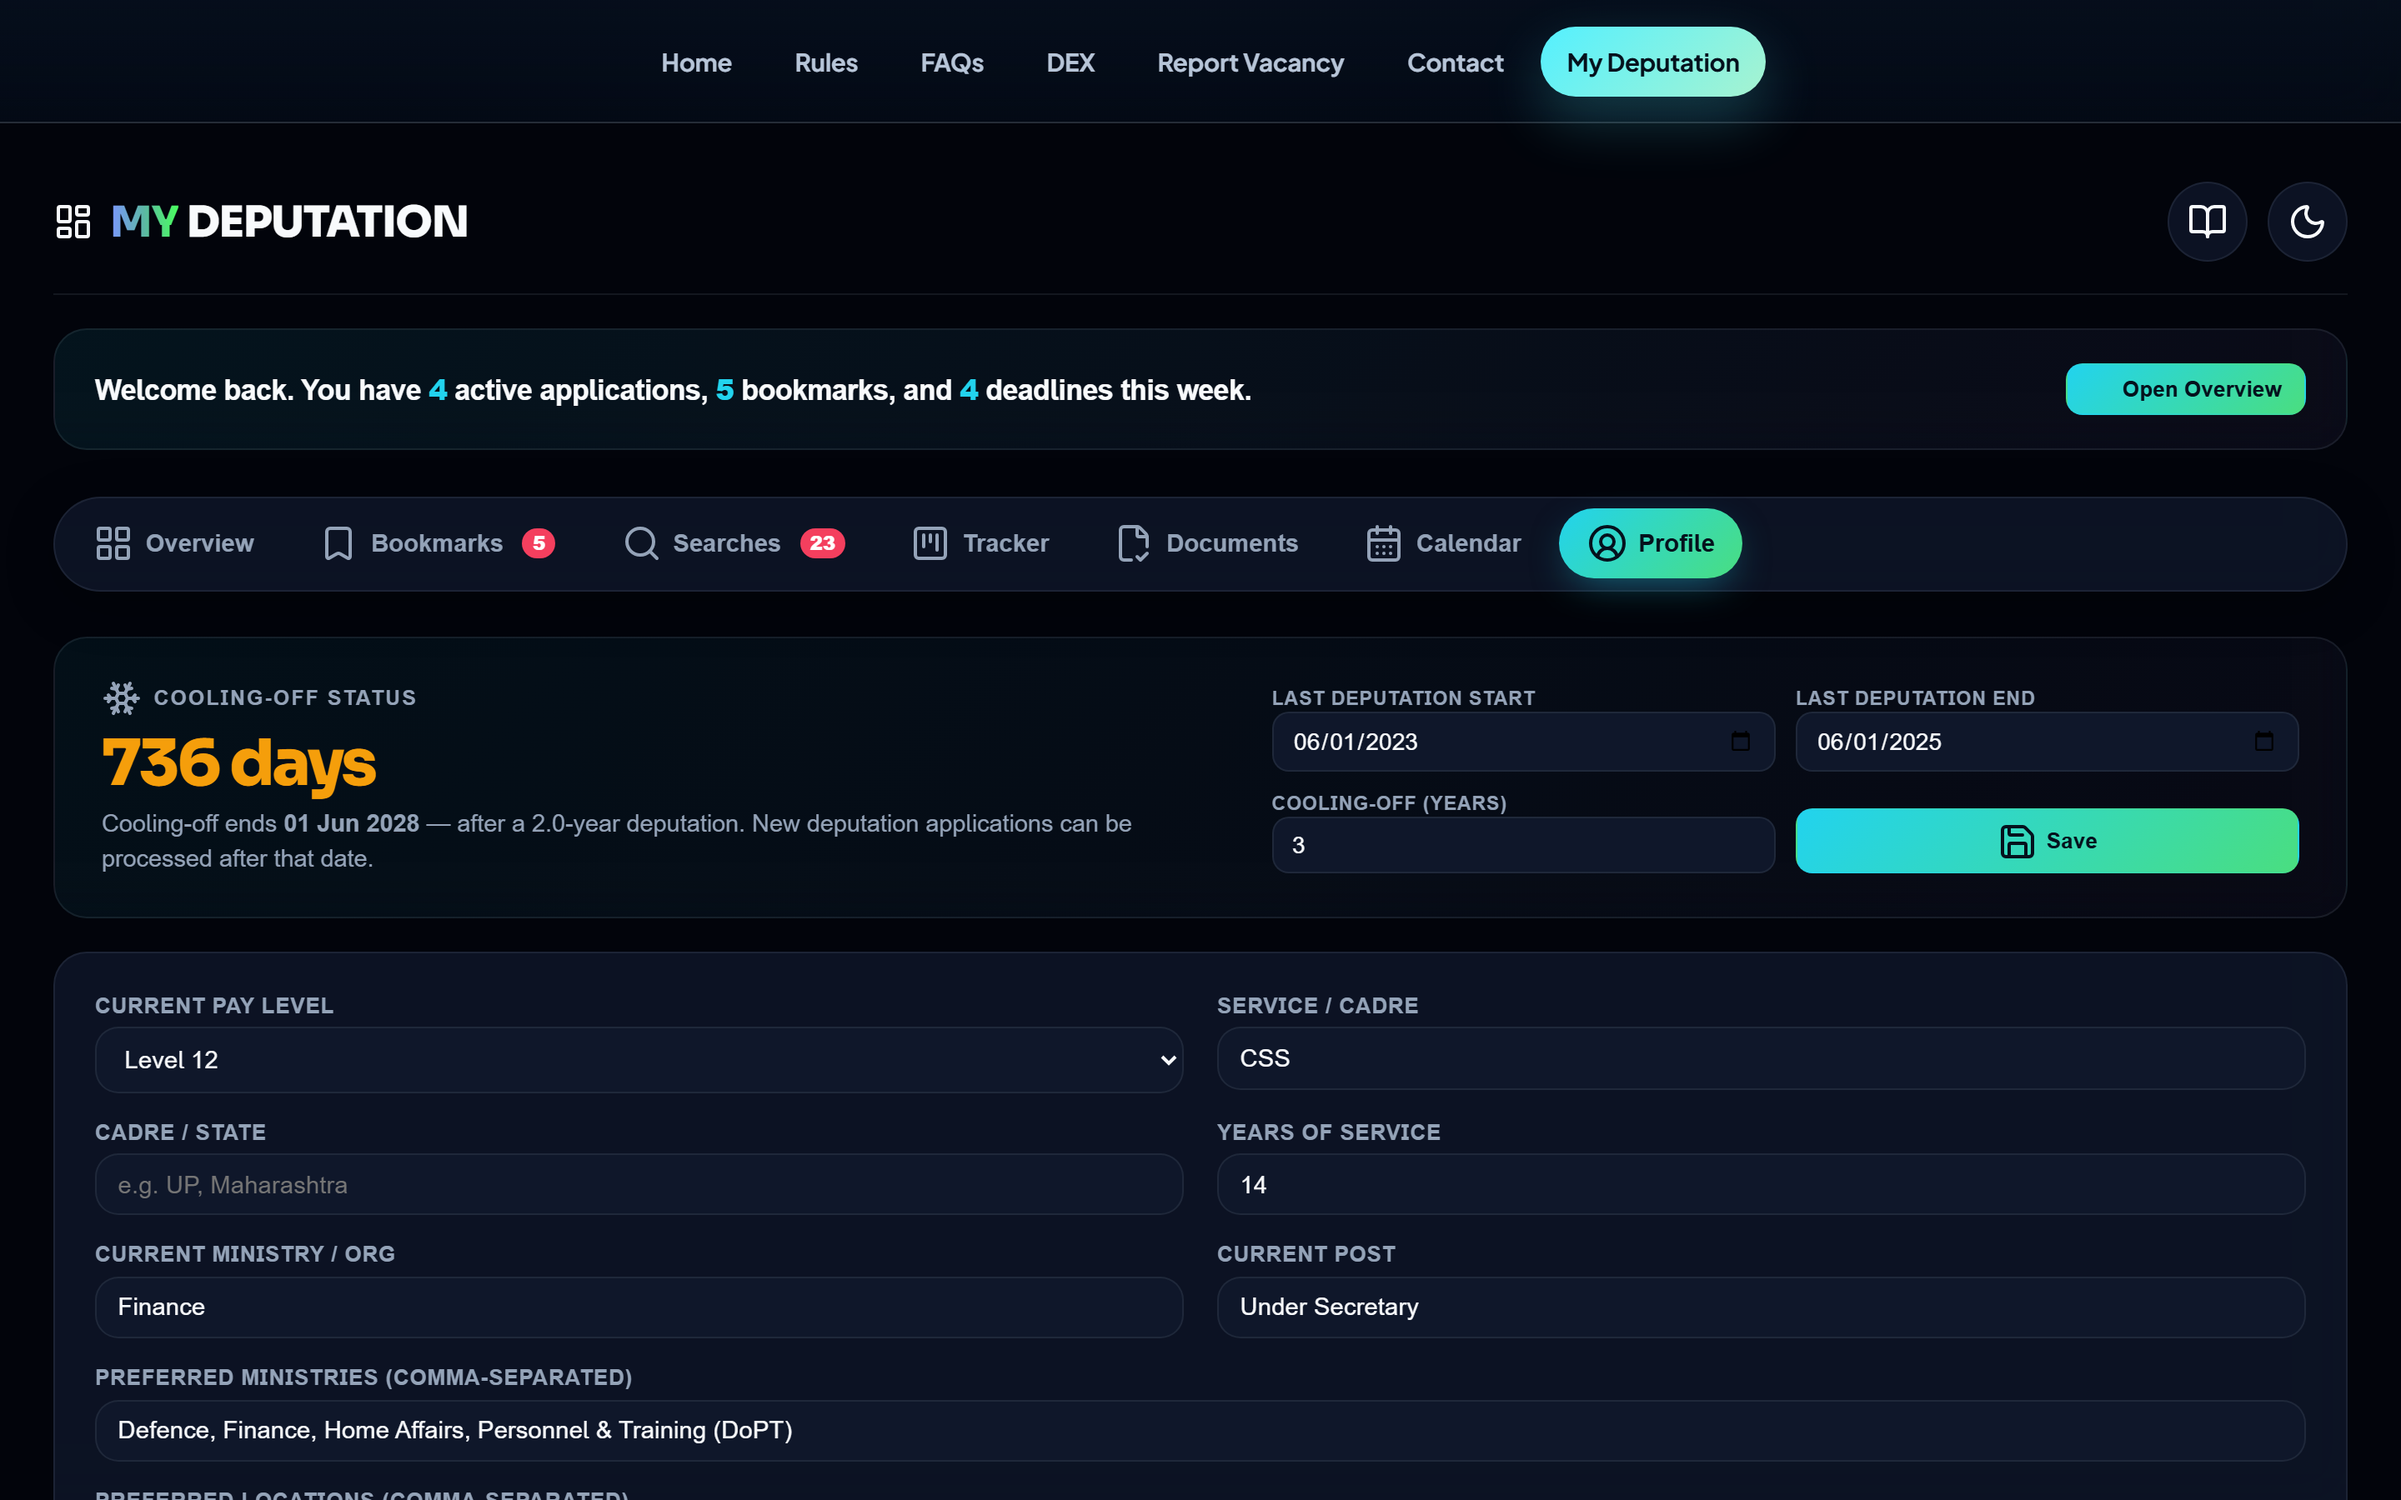
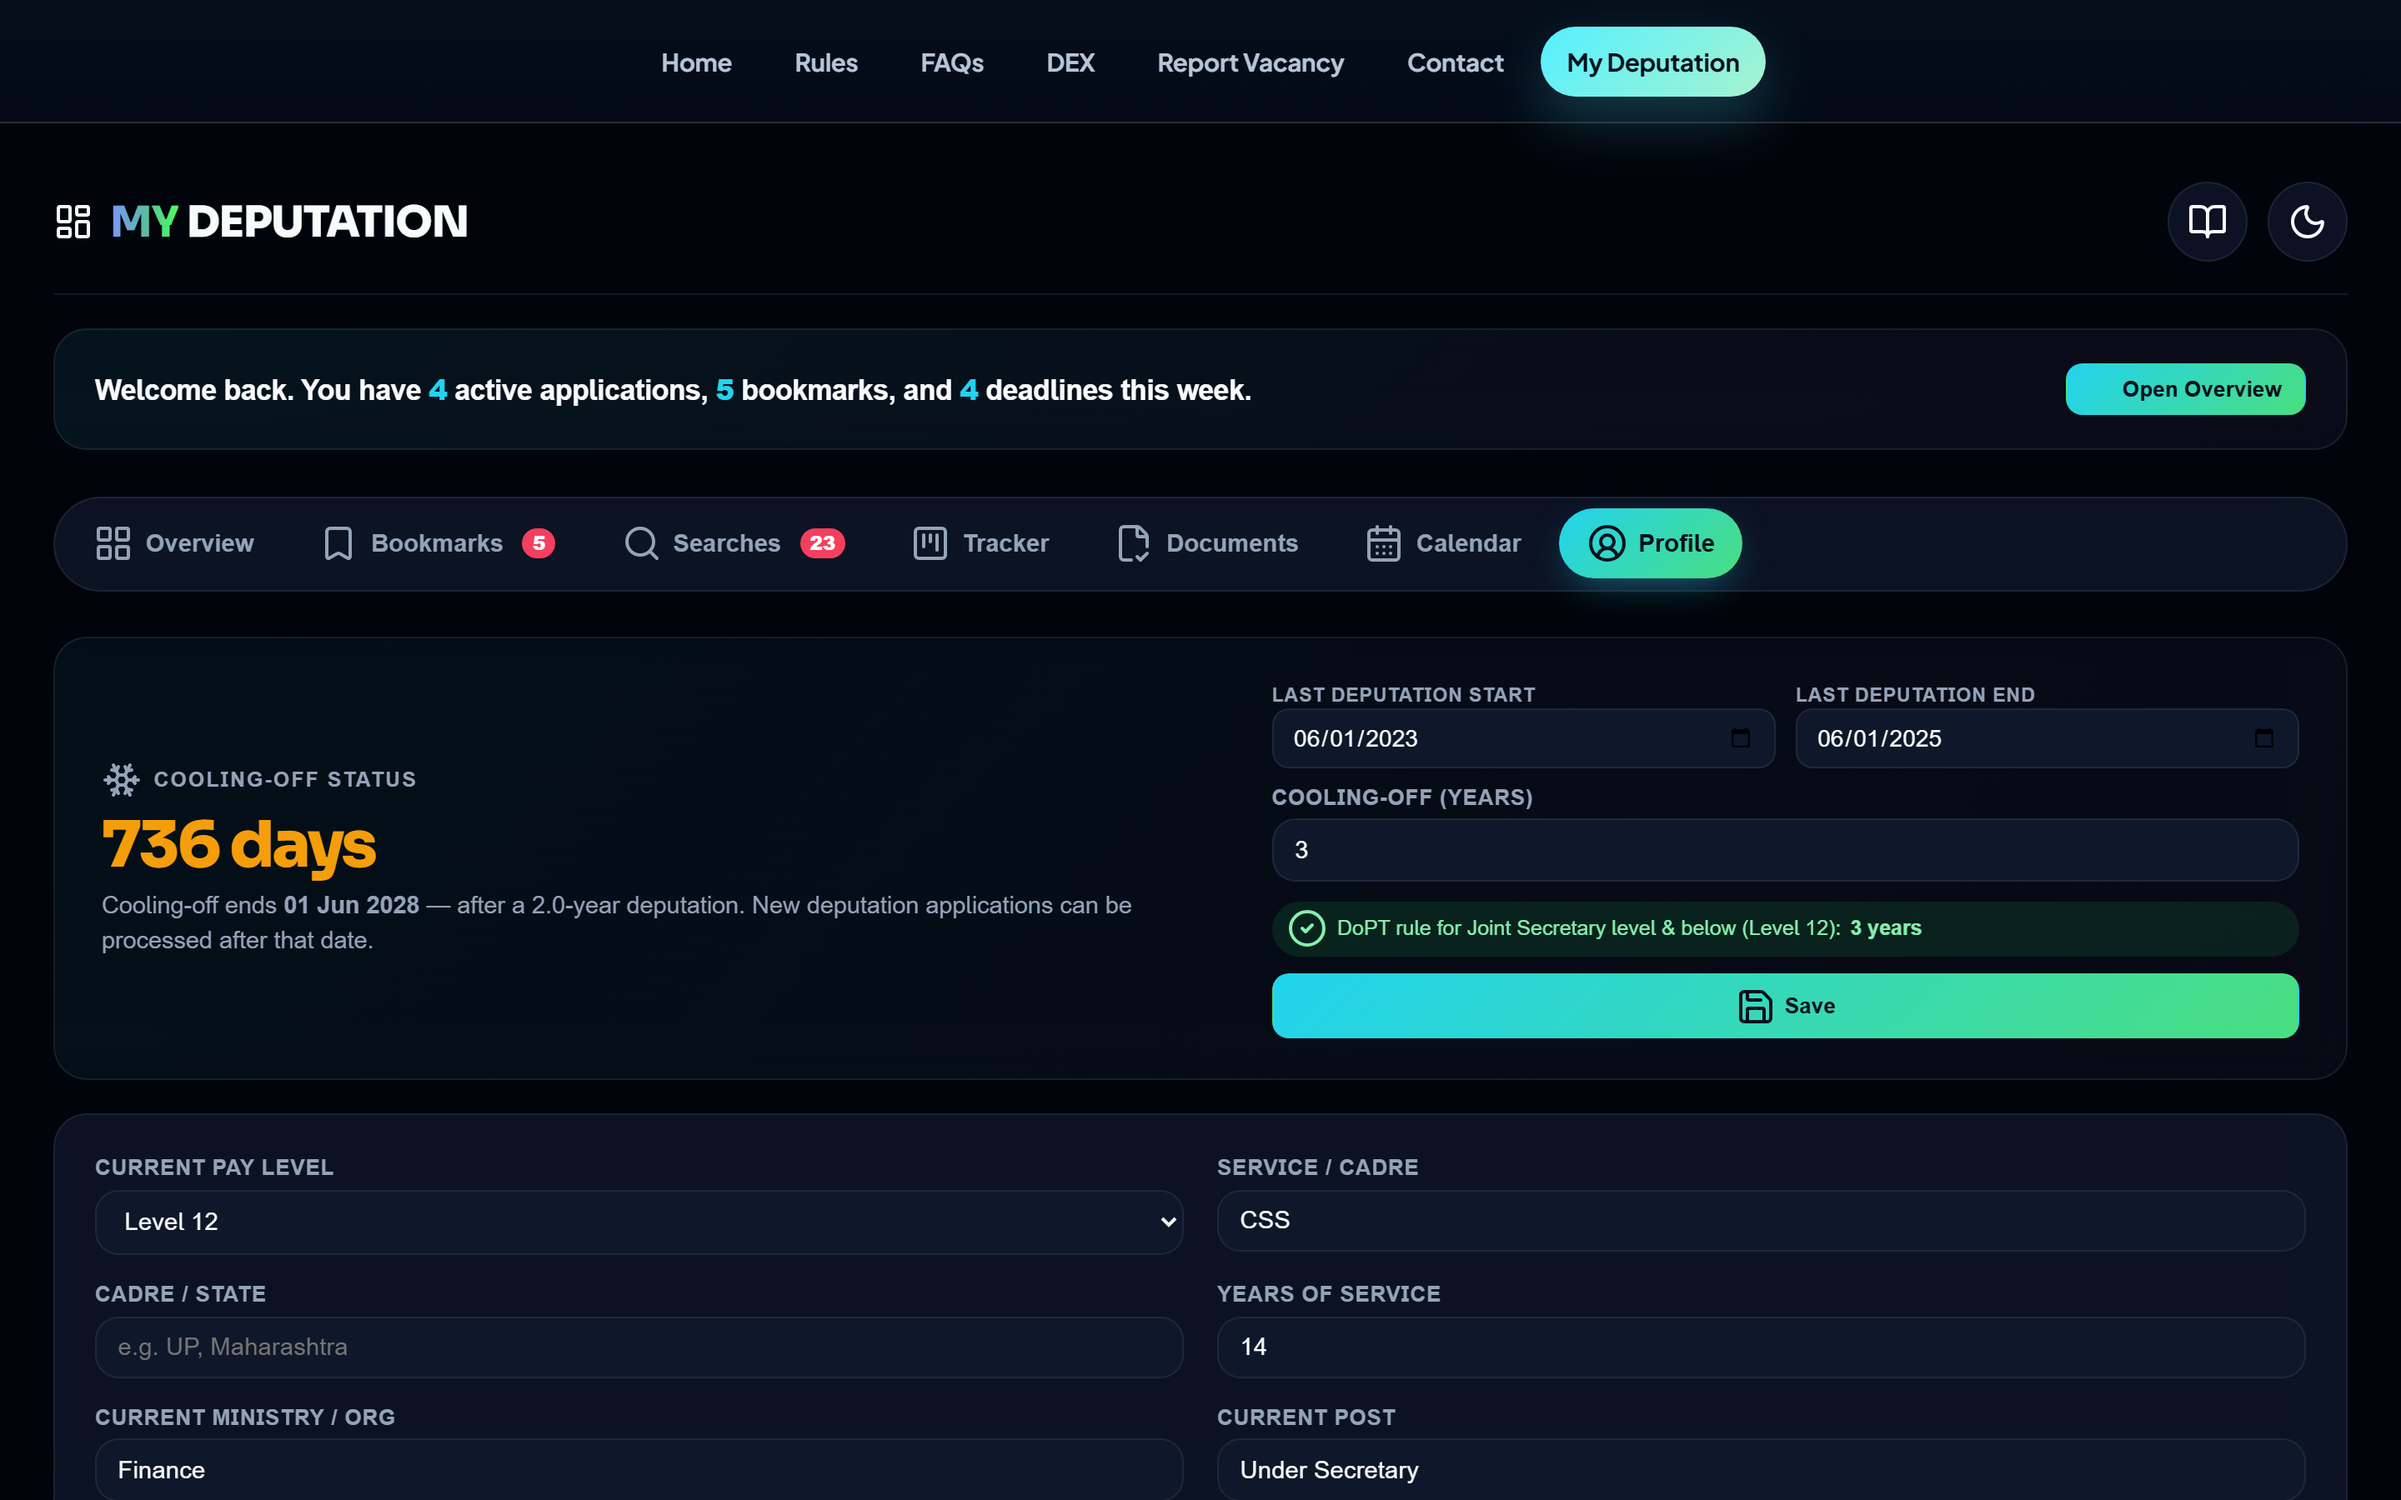
My Deputation: apply DoPT cooling-off rule by pay level
Per DoPT consolidated deputation guidelines, cooling-off depends on rank:
  Level <=14 (Joint Secretary & below) -> 3 years
  Level 15  (Additional Secretary)     -> 1 year
  Level >=16 (Secretary)               -> Nil

Both the Profile cooling-off widget and the bookmark cooling-off pill
now derive years from this rule based on the user's pay level. The
widget shows a chip indicating "matches DoPT rule" (green) or
"override" (amber) with a one-click "Apply rule" button when the user
has set a non-conforming value. Level-16 officers see "Eligible now /
Nil cooling-off required at this rank" regardless of dates.

Manual updated with the DoPT rank/level/period table and revised
widget explanation. Profile screenshot re-shot to show the chip.

diff --git a/my-deputation.js b/my-deputation.js
@@ -1067,16 +1067,38 @@
   }
 
   // ---------- Cooling-off widget ----------
+  // DoPT consolidated guidelines on deputation:
+  //   Joint Secretary level (Level 14) and below -> 3 years cooling-off
+  //   Additional Secretary (Level 15)            -> 1 year cooling-off
+  //   Secretary level (Level 16) and above       -> Nil (no cooling-off)
+  function coolingRuleForLevel(payLevel) {
+    const lvl = Number(payLevel);
+    if (!Number.isFinite(lvl) || lvl <= 0) {
+      return { years: null, rank: '', note: 'Set your pay level in the form below to apply the DoPT rule.' };
+    }
+    if (lvl >= 16) return { years: 0, rank: `Secretary (Level ${lvl})`, note: 'Nil cooling-off required.' };
+    if (lvl === 15) return { years: 1, rank: 'Additional Secretary (Level 15)', note: '1-year cooling-off required.' };
+    return { years: 3, rank: `Joint Secretary level & below (Level ${lvl})`, note: '3-year cooling-off required.' };
+  }
+
   function renderCoolingWidget(profile) {
     const start = profile.lastDeputationStartDate ? new Date(profile.lastDeputationStartDate) : null;
     const end = profile.lastDeputationEndDate ? new Date(profile.lastDeputationEndDate) : null;
-    const years = Number(profile.coolingOffYears ?? 3);
+    const rule = coolingRuleForLevel(profile.payLevel);
+    const years = profile.coolingOffYears != null && profile.coolingOffYears !== ''
+      ? Number(profile.coolingOffYears)
+      : (rule.years != null ? rule.years : 3);
+    const matchesRule = rule.years != null && Number(years) === rule.years;
 
     let statBlock;
     if (!end || Number.isNaN(end.getTime())) {
       statBlock = `
         <div class="md-cooling-stat eligible">Eligible now</div>
         <div class="md-cooling-sub">No previous deputation on record. Add your last deputation's end date to compute cooling-off.</div>`;
+    } else if (years === 0) {
+      statBlock = `
+        <div class="md-cooling-stat eligible">Eligible now</div>
+        <div class="md-cooling-sub">No cooling-off required at this rank under DoPT rules.</div>`;
     } else {
       const eligibleFrom = new Date(end.getFullYear() + years, end.getMonth(), end.getDate());
       const days = Math.ceil((eligibleFrom - new Date()) / 86400000);
@@ -1094,6 +1116,14 @@
       }
     }
 
+    const ruleHint = rule.years == null
+      ? `<span class="md-cooling-rule muted">Set pay level in Profile to auto-apply the DoPT rule</span>`
+      : `<span class="md-cooling-rule ${matchesRule ? 'ok' : 'override'}">
+           <i data-lucide="${matchesRule ? 'check-circle-2' : 'alert-circle'}"></i>
+           DoPT rule for ${U.escapeHtml(rule.rank)}: <strong>${rule.years} year${rule.years === 1 ? '' : 's'}</strong>
+           ${matchesRule ? '' : `<button type="button" class="md-link-btn" id="mdCoolingApplyRule">Apply rule</button>`}
+         </span>`;
+
     return `
       <div class="md-cooling">
         <div>
@@ -1109,11 +1139,12 @@
             <label>Last deputation end</label>
             <input type="date" name="lastDeputationEndDate" value="${U.escapeHtml(profile.lastDeputationEndDate || '')}">
           </div>
-          <div>
+          <div class="md-field full">
             <label>Cooling-off (years)</label>
-            <input type="number" min="0" max="10" name="coolingOffYears" value="${U.escapeHtml(String(profile.coolingOffYears ?? 3))}">
+            <input type="number" min="0" max="10" step="1" name="coolingOffYears" value="${U.escapeHtml(String(years))}">
+            ${ruleHint}
           </div>
-          <div style="display:flex;align-items:flex-end;">
+          <div class="md-field full" style="display:flex;align-items:flex-end;">
             <button type="button" class="md-btn primary" id="mdCoolingSave" style="width:100%;justify-content:center;"><i data-lucide="save"></i>Save</button>
           </div>
         </div>
@@ -1136,6 +1167,17 @@
       toast('Cooling-off saved');
       renderActive();
     });
+    const applyBtn = document.getElementById('mdCoolingApplyRule');
+    if (applyBtn) {
+      applyBtn.addEventListener('click', () => {
+        const p = store.profile();
+        const rule = coolingRuleForLevel(p.payLevel);
+        if (rule.years == null) return;
+        const input = document.querySelector('#mdCoolingForm [name=coolingOffYears]');
+        if (input) input.value = String(rule.years);
+        toast(`Applied DoPT rule: ${rule.years} year${rule.years === 1 ? '' : 's'}`);
+      });
+    }
   }
 
   // ---------- Profile ----------
@@ -1359,10 +1401,14 @@
 
   function coolingOffPill(profile) {
     if (!profile.lastDeputationEndDate) return '';
-    const start = new Date(profile.lastDeputationEndDate);
-    if (Number.isNaN(start.getTime())) return '';
-    const yrs = Number(profile.coolingOffYears || 0);
-    const eligibleFrom = new Date(start.getFullYear() + yrs, start.getMonth(), start.getDate());
+    const end = new Date(profile.lastDeputationEndDate);
+    if (Number.isNaN(end.getTime())) return '';
+    const rule = coolingRuleForLevel(profile.payLevel);
+    const yrs = profile.coolingOffYears != null && profile.coolingOffYears !== ''
+      ? Number(profile.coolingOffYears)
+      : (rule.years != null ? rule.years : 0);
+    if (!yrs) return '';
+    const eligibleFrom = new Date(end.getFullYear() + yrs, end.getMonth(), end.getDate());
     const days = Math.round((eligibleFrom - new Date()) / 86400000);
     if (days <= 0) return '';
     return `<span class="md-pill critical"><i data-lucide="snowflake" style="width:12px;height:12px"></i> Cooling-off until ${U.formatDisplayDate(eligibleFrom.toISOString())}</span>`;

diff --git a/my-deputation-manual.html b/my-deputation-manual.html
@@ -219,10 +219,21 @@
     <p class="caption">Profile tab — cooling-off widget at top, service identity form below</p>
     <p>The <strong>cooling-off widget</strong> at the top is a quick standalone calculator:</p>
     <ul>
-      <li>Enter <strong>last deputation start</strong> and <strong>end</strong> dates and your required <strong>cooling-off years</strong> (default 3).</li>
-      <li>The widget computes the exact <strong>eligible-from date</strong> and shows a live countdown ("736 days") or "Eligible now".</li>
-      <li>Click <strong>Save</strong> — the bookmark cards and tracker pill stay in sync with the same data.</li>
+      <li>Enter <strong>last deputation start</strong> and <strong>end</strong> dates. The cooling-off years are auto-applied from the DoPT rule below based on your pay level.</li>
+      <li>The widget computes the exact <strong>eligible-from date</strong> and shows a live countdown ("736 days"), "Eligible now", or "Nil cooling-off required" for Secretary-level officers.</li>
+      <li>Override the auto value any time by editing the years field; a chip indicates whether you're on the DoPT rule or overriding it.</li>
+      <li>Click <strong>Save</strong> — the bookmark cards' cooling-off pill stays in sync with the same data.</li>
     </ul>
+
+    <p style="margin-top:1rem;"><strong>DoPT cooling-off rule</strong> (per the consolidated guidelines on deputation):</p>
+    <table>
+      <thead><tr><th>Rank</th><th>Pay Level</th><th>Cooling-off period</th></tr></thead>
+      <tbody>
+        <tr><td>Joint Secretary level &amp; below</td><td>Level 14 and below</td><td>3 years</td></tr>
+        <tr><td>Additional Secretary</td><td>Level 15</td><td>1 year</td></tr>
+        <tr><td>Secretary &amp; above</td><td>Level 16+</td><td>Nil</td></tr>
+      </tbody>
+    </table>
 
     <h2 id="match"><span class="num">3</span>How match score works</h2>
     <p>A vacancy's match % (0–100) is the sum of these factors:</p>

diff --git a/my-deputation.css b/my-deputation.css
@@ -764,6 +764,36 @@
 }
 .md-cooling-form input:focus { outline: none; border-color: var(--primary-color); box-shadow: 0 0 0 3px rgba(34,211,238,0.18); }
 
+.md-cooling-rule {
+  display: inline-flex;
+  align-items: center;
+  gap: 0.35rem;
+  margin-top: 0.4rem;
+  padding: 0.3rem 0.6rem;
+  border-radius: 999px;
+  font-size: 0.78rem;
+  font-weight: 500;
+}
+.md-cooling-rule i { width: 14px; height: 14px; flex-shrink: 0; }
+.md-cooling-rule.ok       { background: rgba(34, 197, 94, 0.12); color: #86efac; }
+.md-cooling-rule.override { background: rgba(245, 158, 11, 0.14); color: #fcd34d; }
+.md-cooling-rule.muted    { background: rgba(148, 163, 184, 0.12); color: var(--text-muted); }
+[data-theme="light"] .md-cooling-rule.ok       { color: #166534; }
+[data-theme="light"] .md-cooling-rule.override { color: #92400e; }
+
+.md-link-btn {
+  background: none;
+  border: 0;
+  padding: 0 0.15rem;
+  font: inherit;
+  font-weight: 600;
+  color: var(--primary-color);
+  text-decoration: underline;
+  cursor: pointer;
+  margin-left: 0.25rem;
+}
+.md-link-btn:hover { text-decoration: none; }
+
 @media (max-width: 768px) {
   .md-cooling { grid-template-columns: 1fr; padding: 1.25rem; }
   .md-cal-cell { min-height: 68px; padding: 0.3rem 0.35rem; }

diff --git a/.claude/capture_manual_shots.py b/.claude/capture_manual_shots.py
@@ -33,7 +33,7 @@ def seed_payload() -> dict:
             "experienceTags": ["procurement", "budget", "audit", "policy"],
             "lastDeputationStartDate": "2023-06-01",
             "lastDeputationEndDate": "2025-06-01",
-            "coolingOffYears": 3
+            "coolingOffYears": 3  # intentional override so the manual screenshot shows the "override" rule chip
         },
         "deputationWatchlist": [
             "CULT-2026-L11-001", "AGRI-2026-L10-003",
